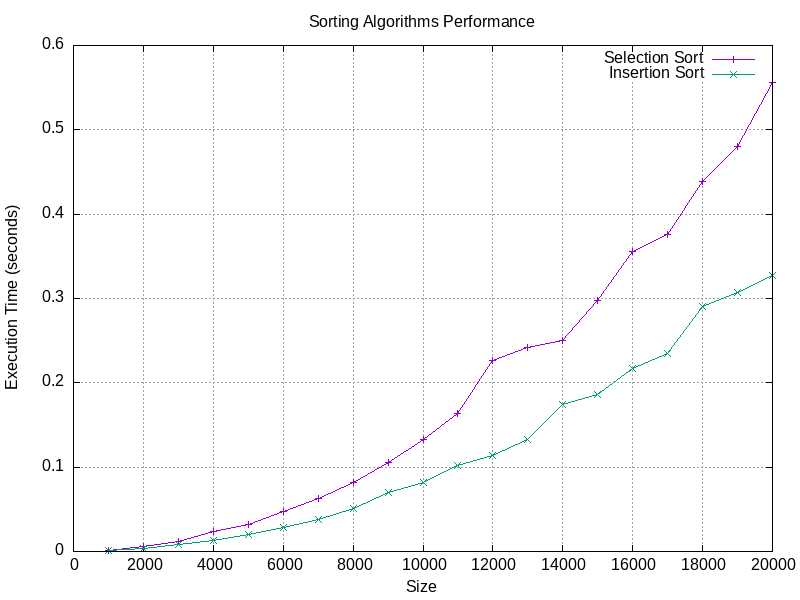
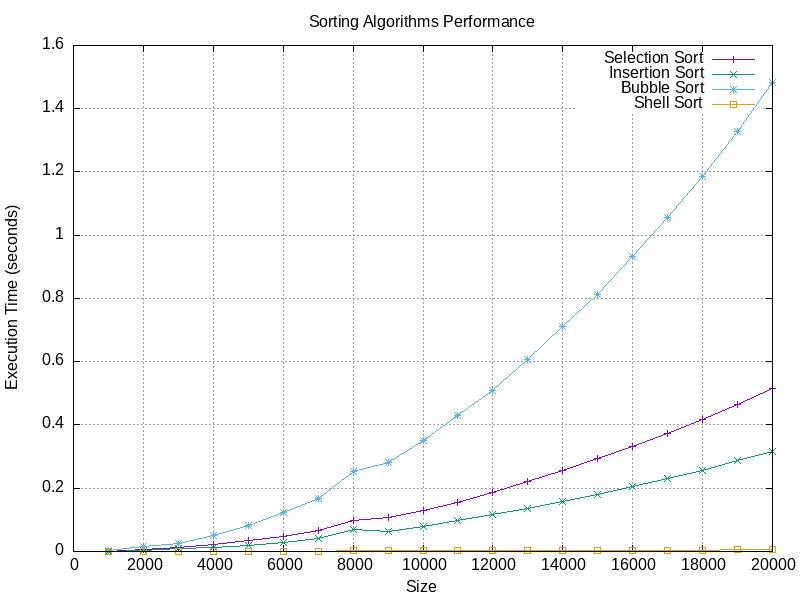
Add Bubble Sort and Shell Sort

diff --git a/sorting.h b/sorting.h
@@ -30,12 +30,38 @@ void insertionSort(int *arr, int n)
     for (i = 1; i < n; i++)
     {
         temp = arr[i];
-        j = i - 1;
-        while (j >= 0 && arr[j] > temp)
-        {
+        for (j = i - 1; j >= 0 && arr[j] > temp; j--)
             arr[j + 1] = arr[j];
-            j = j - 1;
-        }
         arr[j + 1] = temp;
+    }
+}
+
+//? Bubble Sort Algorithm
+void bubbleSort(int *arr, int n)
+{
+    int i, j;
+    for (i = 0; i < n - 1; i++)
+    {
+        for (j = 0; j < n - i - 1; j++)
+        {
+            if (arr[j] > arr[j + 1])
+                swap(arr + j, arr + j + 1);
+        }
+    }
+}
+
+//? Shell Sort Algorithm
+void shellSort(int *arr, int n)
+{
+    int gap, i, temp, j;
+    for (gap = n / 2; gap > 0; gap /= 2)
+    {
+        for (i = gap; i < n; i += 1)
+        {
+            temp = arr[i];
+            for (j = i; j >= gap && arr[j - gap] > temp; j -= gap)
+                arr[j] = arr[j - gap];
+            arr[j] = temp;
+        }
     }
 }

diff --git a/main.c b/main.c
@@ -6,17 +6,25 @@ int main()
     srand(time(0));
 
     int arrSize = 1000, nbIt = 20, it;
-    int *arr1, *arr2;
-    double mat[nbIt][3];
+    int *arr1, *arr2, *arr3, *arr4;
+    double mat[nbIt][5];
     for (it = 0; it < nbIt; it++)
     {
         arr1 = generateRandomArray(arrSize);
         arr2 = copyArray(arr1, arrSize);
+        arr3 = copyArray(arr1, arrSize);
+        arr4 = copyArray(arr1, arrSize);
         mat[it][0] = arrSize;
         mat[it][1] = timeTaken(arr1, arrSize, selectionSort);
         mat[it][2] = timeTaken(arr2, arrSize, insertionSort);
+        mat[it][3] = timeTaken(arr3, arrSize, bubbleSort);
+        mat[it][4] = timeTaken(arr4, arrSize, shellSort);
         arrSize += 1000;
     }
     printMatrix(mat, nbIt);
+    free(arr1);
+    free(arr2);
+    free(arr3);
+    free(arr4);
     return 0;
 }

diff --git a/utils.h b/utils.h
@@ -21,12 +21,12 @@ double timeTaken(int *arr, int n, void fun(int *, int))
     return (double)(end - start) / CLOCKS_PER_SEC;
 }
 
-void printMatrix(double mat[][3], int n)
+void printMatrix(double mat[][5], int n)
 {
     int i;
-    printf("Size, Selection Sort, Insertion Sort\n");
+    printf("Size, Selection Sort, Insertion Sort, Bubble Sort, Shell Sort\n");
     for (i = 0; i < n; i++)
-        printf("%.0f, %f, %f\n", mat[i][0], mat[i][1], mat[i][2]);
+        printf("%.0f, %f, %f, %f, %f\n", mat[i][0], mat[i][1], mat[i][2], mat[i][3], mat[i][4]);
 }
 
 int *copyArray(int *arr, int n)
